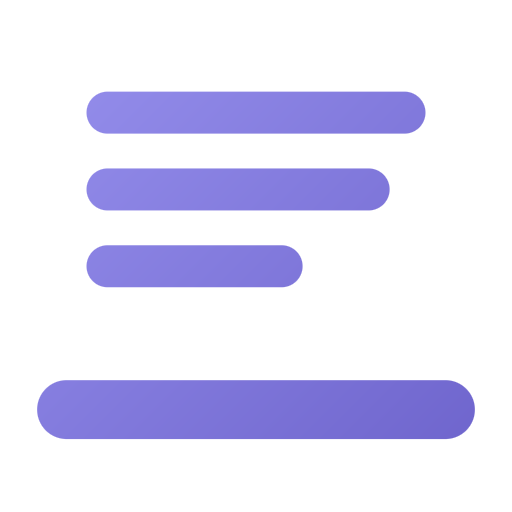
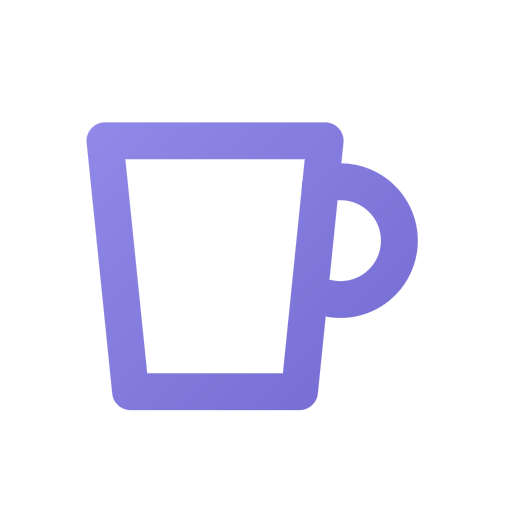
Draw a cup, because the old mark was furniture
Three ragged lines and a heavier rule under them. The argument for it held up
and the picture still lost: beside a tick, a nib, a thread, a ring and an arrow,
a tomato, four tally marks and a ship's wheel, Brief was the only app drawing a
piece of interface, and the only one without a curve in it. A reader who has not
read the generator's header comment sees a list-alignment icon, and the header
comment does not ship.

Eleven candidates got drawn. Two findings outlived them. Paper collapses at icon
size: a sheet is a rectangle and every rectangle is already the file glyph, a
window, or a phone with a home button. And a disc plus anything horizontal is a
finished glyph you did not choose - a bowler hat, an avatar, a slider handle,
which was three attempts at the same sunrise.

What the suite's surviving marks share is a closed form and one small element.
A cup is that shape of idea, it survives 16px without dropping a part, and
PomPom is the precedent for drawing the ritual rather than the mechanics.

The geometry exists twice as it did before, and the inline arc was checked
against the generator numerically: its flags resolve to centre (64, 47.5),
r 14.5, 255 to 105 degrees clockwise, which is SMALL.handle.

Changed region(s): [[0.0625, 0.1562, 0.9375, 0.875]]

diff --git a/src/renderer/index.html b/src/renderer/index.html
@@ -19,25 +19,36 @@
              at 20px next to 17px text, a downscaled 512px bitmap is soft exactly
              where the eye is most critical.
 
-             This is the icon's SMALL drawing - two lines and the rule, not
-             three and the rule - for the same reason generate-icon.mjs drops a
-             line below 32px. Geometry matches FULL/SMALL there; change one,
-             change the other. -->
+             This is the icon's SMALL drawing - the wider body, the heavier
+             stroke and the larger handle - for the same reason
+             generate-icon.mjs switches below 32px: at this size a handle drawn
+             to full-size proportions has its hole close up, and a cup with a
+             filled handle is a bucket. Geometry matches FULL/SMALL there;
+             change one, change the other. -->
         <svg class="brand-mark" width="20" height="20" viewBox="0 0 100 100" aria-hidden="true">
-          <!-- userSpaceOnUse, not the default: an objectBoundingBox gradient
-               renders nothing at all on a zero-height shape, and every line here
-               is one. Nib shipped an invisible slit for weeks that way. -->
+          <!-- userSpaceOnUse, not the default: it puts one ramp across the whole
+               canvas, which is what diagonalRamp does in the generator. Per-shape
+               objectBoundingBox would run the ramp twice and colour the handle
+               differently from the body - and it renders nothing at all on a
+               shape with no height, which is how Nib shipped an invisible slit
+               for weeks. -->
           <linearGradient id="brief-mark" gradientUnits="userSpaceOnUse" x1="0" y1="0" x2="100" y2="100">
             <stop offset="0" stop-color="#9a94f0" />
             <stop offset="1" stop-color="#6a60c9" />
           </linearGradient>
-          <g stroke="url(#brief-mark)" stroke-linecap="round" fill="none">
-            <path d="M20 23 L80 23" stroke-width="12.5" />
-            <path d="M20 44 L56 44" stroke-width="12.5" />
-            <!-- Wider than the text and set well below it. That overhang is
-                 what stops three horizontal bars reading as a hamburger menu,
-                 which the first draft of this mark did. -->
-            <path d="M12 80 L88 80" stroke-width="16.5" />
+          <g
+            stroke="url(#brief-mark)"
+            stroke-width="11.5"
+            stroke-linecap="round"
+            stroke-linejoin="round"
+            fill="none"
+          >
+            <path d="M16 27.5 L58.5 27.5 L54.5 77.5 L20 77.5 Z" />
+            <!-- The handle, and the two ends land inside the body's right edge
+                 rather than floating clear of it. The long way round the circle,
+                 hence the large-arc flag: 210 degrees, so the counter is wide
+                 enough to survive being 16px across. -->
+            <path d="M60.25 33.49 A14.5 14.5 0 1 1 60.25 61.51" />
           </g>
         </svg>
         <span class="wordmark">Brief</span>

diff --git a/DECISIONS.md b/DECISIONS.md
@@ -3,6 +3,62 @@
 Newest first. Each entry: the date, what was decided, what else was considered,
 and why this won.
 
+## 2026-08-24 - The mark is a cup, because the old one was furniture
+
+**Decided.** Brief's mark is a cup: a tapered body and a handle, one stroke
+weight, still periwinkle. The three ragged lines and the heavier rule under them
+are gone.
+
+**What was wrong with the old one.** Not the argument, which held up. The rule
+was wider than the text so it could not read as a hamburger menu, and the gap
+above it was nearly twice the line spacing. The picture lost anyway. Set beside
+the family at 76px and at 16px, Brief was the only app drawing a piece of
+interface rather than an object, and the only one with no curve in it. Jot draws
+a tick, Nib a nib, Loom a thread, Nudge a ring and an arrow, PomPom a tomato,
+Tend four tally marks, Helm a ship's wheel. A reader who has not read the
+generator's header comment sees a list-alignment icon, and the header comment is
+not shipped.
+
+**Eleven candidates, and two findings worth more than any of them.**
+
+*Paper collapses at icon size.* A sheet is a rectangle, and every rectangle is
+already spoken for: the file glyph, a window, a phone with a home button. A
+briefcase read perfectly and was rejected on meaning rather than on drawing, a
+folded note came out a window, a sealed dispatch came out a phone, and a rolled
+scroll came out a snail.
+
+*A disc plus anything horizontal is a finished glyph you did not choose.* Disc on
+a bar is a bowler hat. Disc above a curve is an avatar, head and shoulders. Disc
+inside a broken line is a slider handle. That was three attempts at the same
+sunrise idea, each landing on a different meaning that was not sunrise, and the
+semantics were the best of any candidate.
+
+**Why a cup wins.** The suite's surviving marks all share one structure: a closed
+form and one small distinguishing element. Ring and tick, ring and arrow, outline
+and slit, body and calyx. A cup is that shape of idea, and it survives 16px
+without any part being dropped, which the old mark could not do. The precedent
+for the object is PomPom, which draws a tomato rather than a timer: the ritual,
+not the mechanics. Brief is what you read once, early, before the day gets loud.
+
+**The known objection**, recorded because it will come back: a cup can be read as
+"a coffee app", and it says morning rather than briefing. The alternative that
+said briefing was a pilcrow, which is crisp at every size and is also the "show
+formatting" button in every word processor, so it fails the same way the old mark
+did. Meaning was traded for not being furniture.
+
+**What the handle costs.** Below 32px the body widens, the stroke thickens and
+the handle grows, because a handle at full-size proportions has its counter close
+up at 16px and a cup with a filled handle is a bucket. Same silhouette either
+way. Nib's generator is the warning against going further than that: it once drew
+a genuinely different mark for the small frames, and Windows showed one logo in
+the taskbar and another in search.
+
+The geometry exists twice, as it did before: `scripts/generate-icon.mjs` and the
+inline SVG in `src/renderer/index.html`, which is the SMALL drawing. The arc in
+the SVG was checked numerically against the generator rather than by eye: its
+large-arc and sweep flags resolve to centre (64, 47.5), r 14.5, running 255 to
+105 degrees clockwise, which is `SMALL.handle`.
+
 ## 2026-08-24 — One vendor, two models, and the check is on the artefact
 
 **Decided.** Gemini is gone. A Claude session does the whole world half, in two
